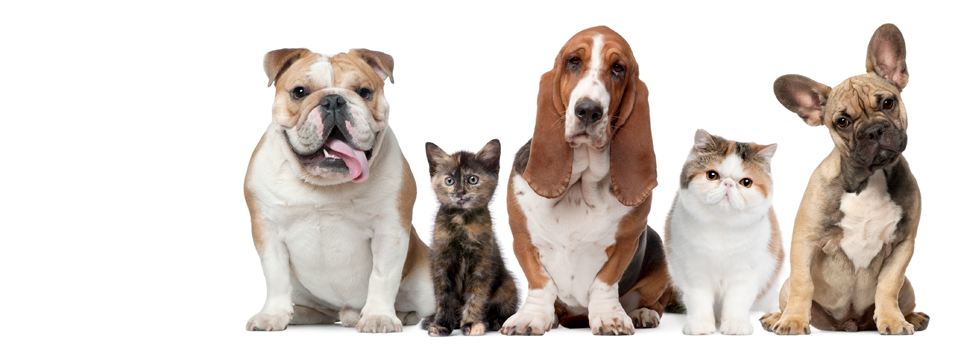
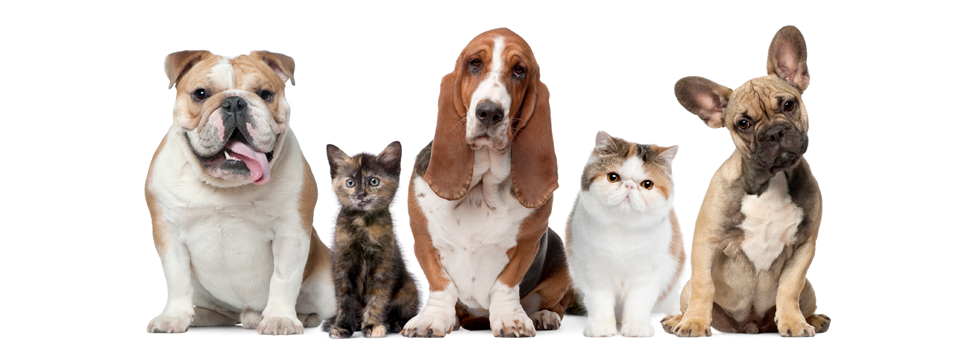
w

diff --git a/css/custom.css b/css/custom.css
@@ -1,5 +1,4 @@
 body {
-	
 }
 
 h1, h2, h3, h4, h5 {
@@ -7,11 +6,17 @@ h1, h2, h3, h4, h5 {
 }
 
 footer {
-	background-color: #503868;
 	font-style: normal;
 	font-weight: normal;
 	color: #fff;
 	padding-top: 40px;
 	margin-top: 40px;
 	font-size: 11px;
+	background: #000 url(../img/footer_bk.png) repeat;
+}
+
+.carousel .item > img {
+  margin:0px auto;
+  display: block;
+  line-height: 1;
 }

diff --git a/index.html b/index.html
@@ -70,7 +70,7 @@
     <li data-target="#myCarousel" data-slide-to="2"></li>
   </ol>
   <!-- Carousel items -->
-  <div class="carousel-inner">
+  <div class="carousel-inner text-center">
     <div class="active item"><img src="img/pets1.png" alt="pet"></div>
     <div class="item"><img src="img/pets2.png" alt="pet"></div>
     <div class="item"><img src="img/pets3.png" alt="pet"></div>
